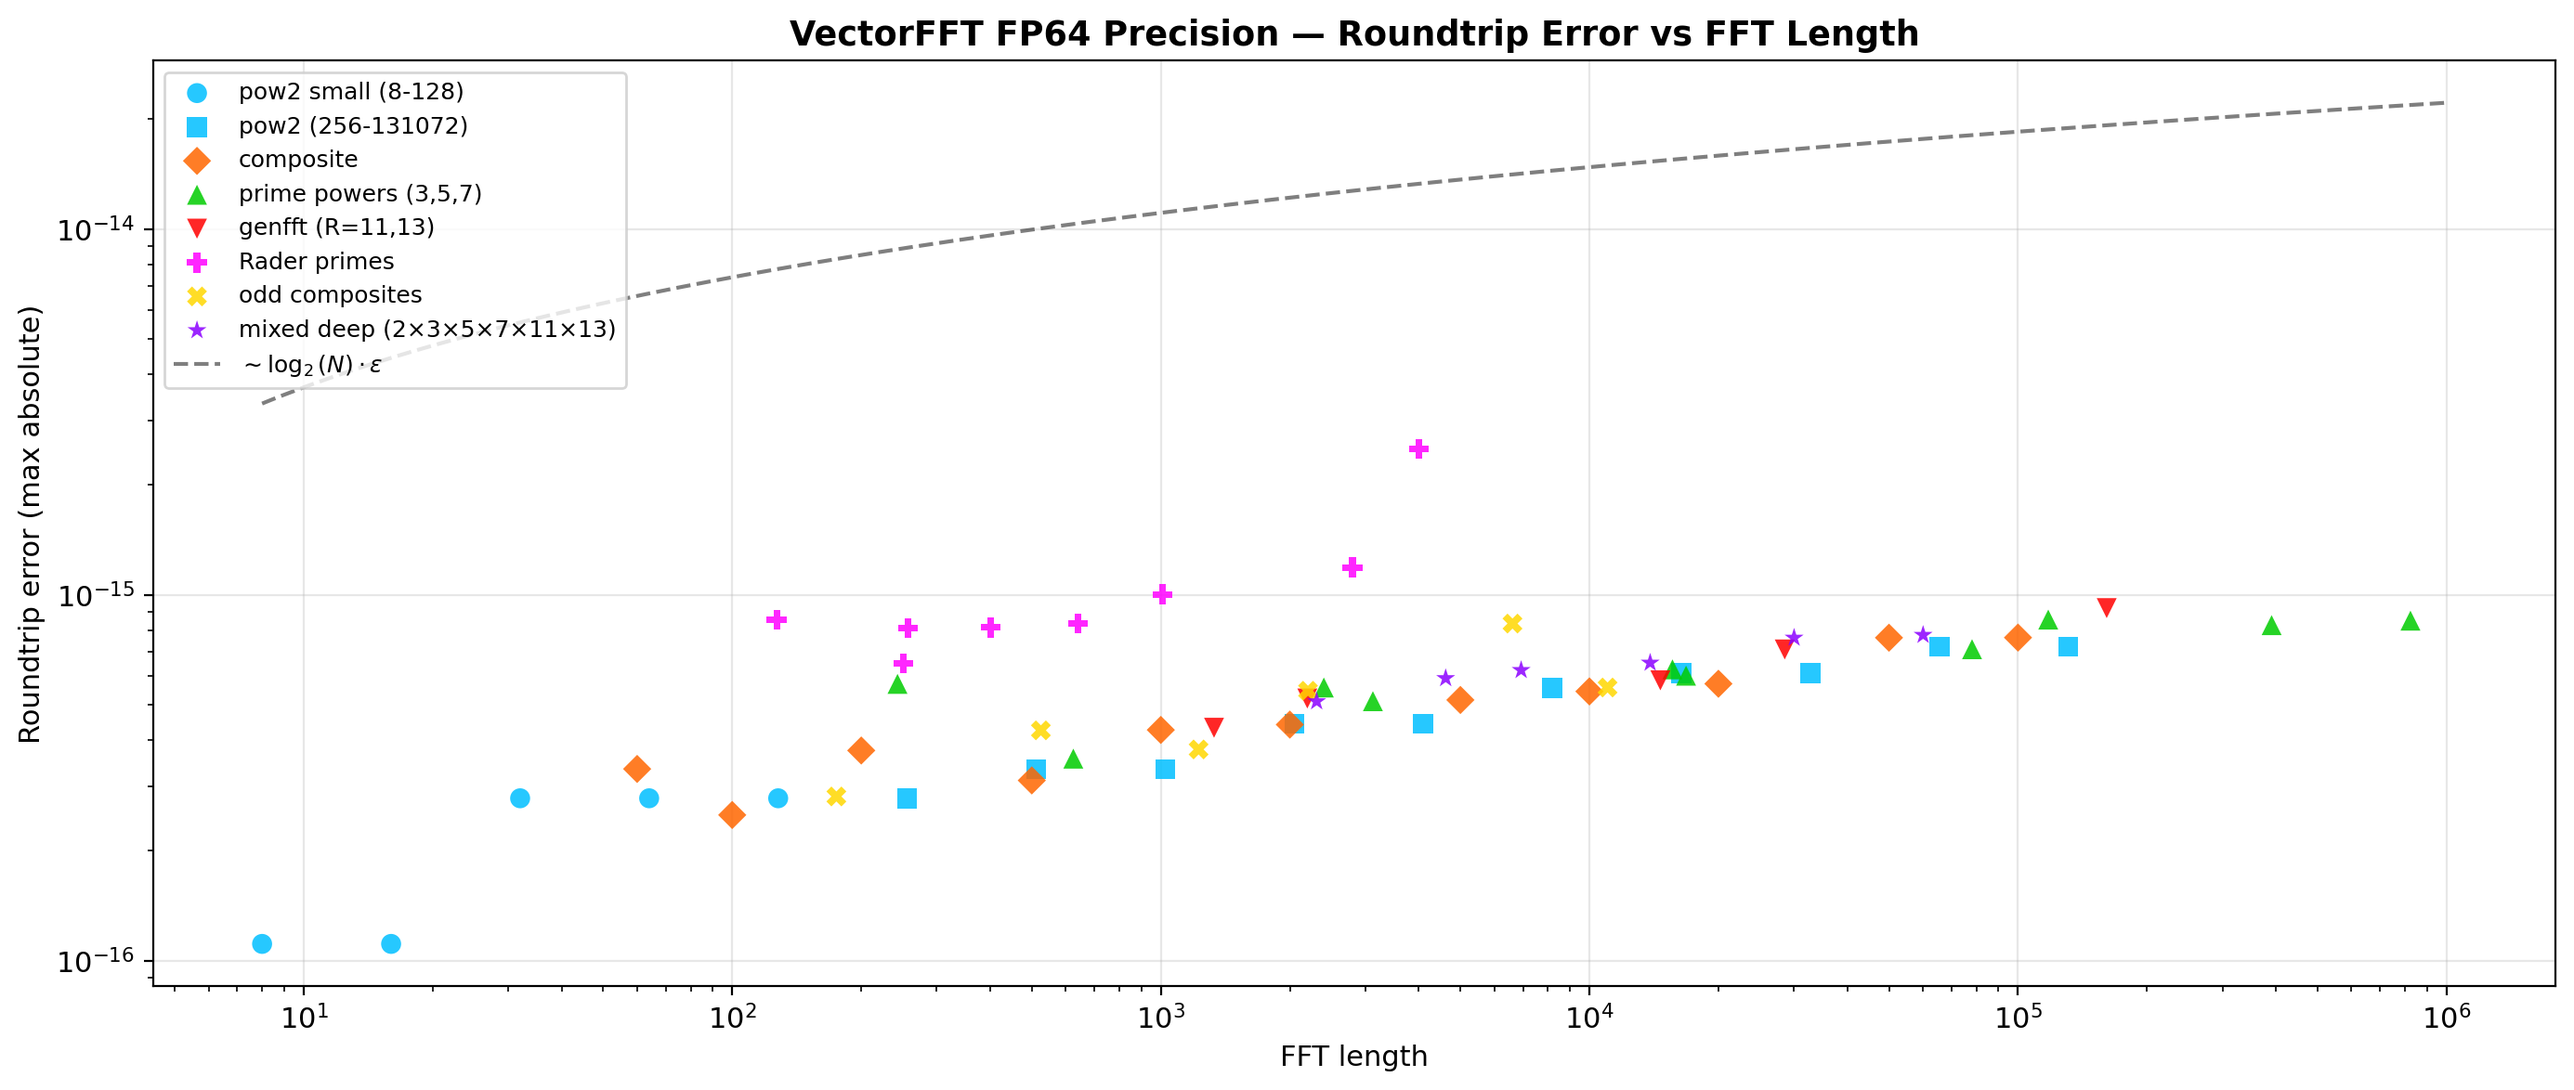
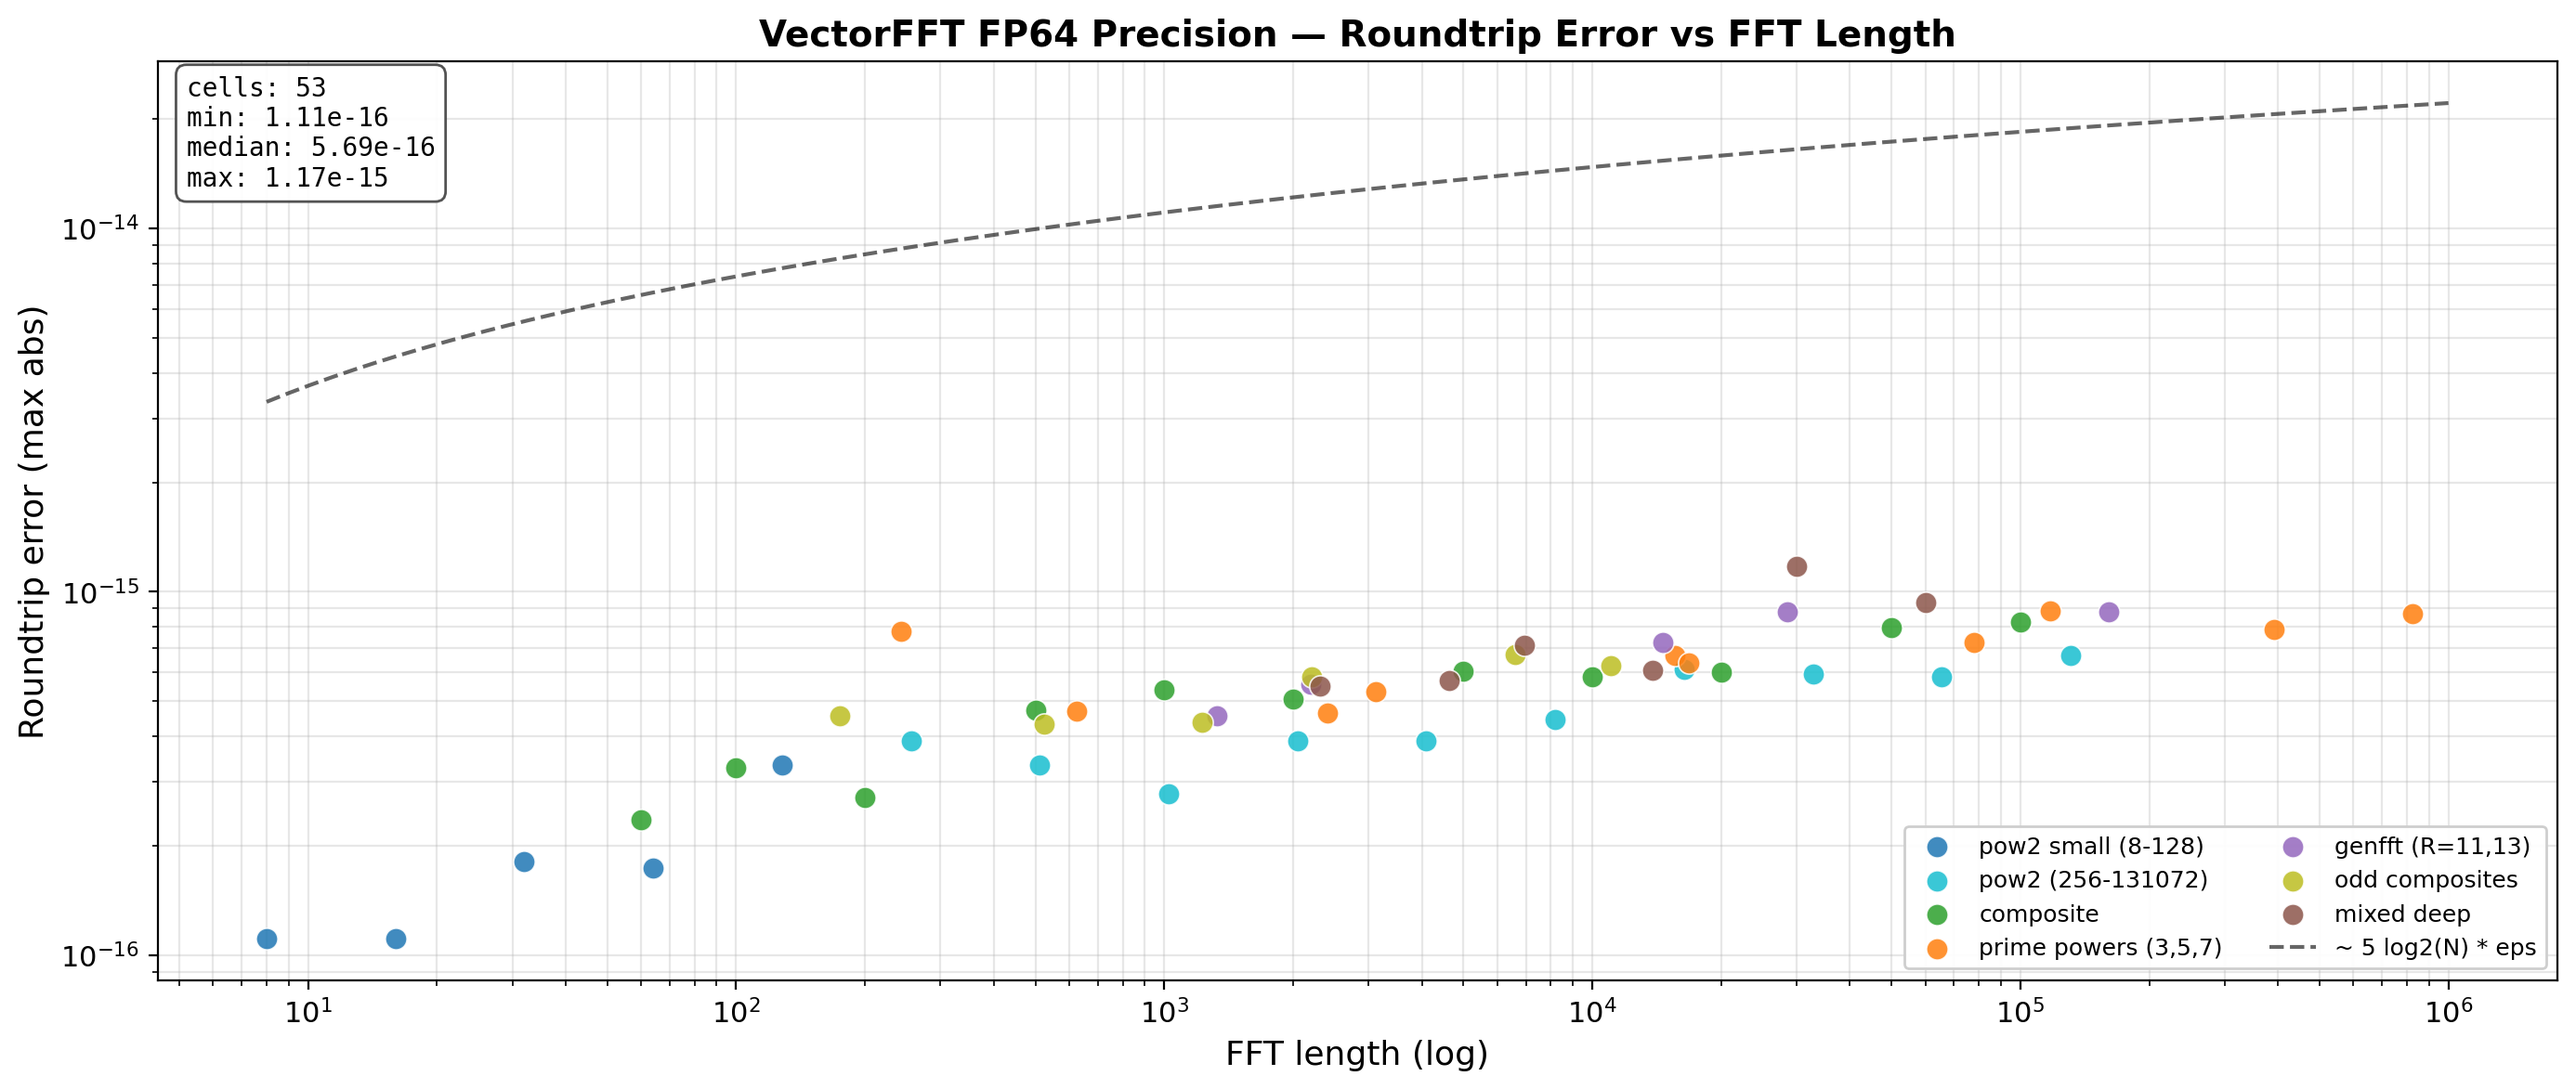
Update README with new benchmark results
Refresh README to reflect an expanded benchmark run (198 -> 207 data points) and revised category breakdowns and summary metrics. Update 1D throughput and speedup tables, amend highlight results, add Bluestein prime-handling details and an expanded Prime-N (Rader and Bluestein) section, and tighten the numerical precision/error discussion. Also replace the associated performance figures (throughput, scatter, speedup and precision PNGs) to match the new results.

diff --git a/README.md b/README.md
@@ -2,7 +2,7 @@
 
 <p align="center">
   A permutation-free mixed-radix Fast Fourier Transform library in C with hand-tuned AVX2/AVX-512 codelets.<br>
-  <b>Beats Intel MKL on every tested size — 198/198 benchmarks.</b> No external dependencies.
+  <b>Beats Intel MKL on every tested size — 207/207 benchmarks.</b> No external dependencies.
 </p>
 
 ---
@@ -11,7 +11,7 @@
 
 > **Platform:** Intel Core i9-14900KF, 48 KB L1d, DDR5, AVX2, single-threaded  
 > **Competitor:** Intel MKL 2025 (sequential, `mkl_set_num_threads(1)`)  
-> **198 data points** across 8 categories, 3 batch sizes (K=4, K=32, K=256), N=8 to N=823,543
+> **207 data points** across 9 categories, 3 batch sizes (K=4, K=32, K=256), N=8 to N=823,543
 
 ### 1D FFT Throughput — VectorFFT vs Intel MKL
 
@@ -19,49 +19,52 @@
 
 Three panels showing GFLOP/s at each batch size. Blue = VectorFFT, Red = MKL. Different marker shapes per category. VectorFFT sits above MKL across the board.
 
-| Category | Sizes | Best Win | Closest MKL Gets |
+| Category | Cells | Best Win | Closest MKL Gets |
 |----------|-------|----------|-------------------|
-| **Small pow2** (8-128) | 5 sizes | **9.81x** (N=8, K=4) | 1.92x (N=64, K=256) |
-| **Power-of-2** (256-131K) | 10 sizes | **2.38x** (N=512, K=4) | 1.02x (N=16384, K=4) |
-| **Composite** (60-100K) | 11 sizes | **5.30x** (N=60, K=32) | 1.80x (N=10000, K=256) |
-| **Prime powers** (3,5,7) | 10 sizes | **3.56x** (N=390625, K=4) | 1.31x (N=243, K=4) |
-| **Genfft** (R=11,13) | 5 sizes | **3.00x** (N=14641, K=32) | 1.41x (N=2197, K=256) |
-| **Rader primes** | 8 sizes | **2.91x** (N=257, K=32) | 1.08x (N=127, K=4) |
-| **Odd composites** | 6 sizes | **3.70x** (N=175, K=256) | 1.72x (N=6615, K=4) |
-| **Mixed deep** | 6 sizes | **3.17x** (N=4620, K=32) | 1.59x (N=6930, K=4) |
+| **Small pow2** (8-128) | 15 | **8.98x** (N=8, K=4) | 2.38x (N=128, K=4) |
+| **Power-of-2** (256-131K) | 30 | **2.74x** (N=512, K=256) | 1.17x (N=131072, K=4) |
+| **Composite** (60-100K) | 33 | **5.15x** (N=60, K=32) | 1.69x (N=50000, K=256) |
+| **Prime powers** (3,5,7) | 30 | **3.95x** (N=390625, K=4) | 1.26x (N=243, K=4) |
+| **Prime powers** (R=11,13) | 15 | **3.06x** (N=14641, K=32) | 1.50x (N=2197, K=256) |
+| **Rader primes** | 24 | **3.42x** (N=641, K=32) | 1.05x (N=127, K=4) |
+| **Bluestein primes** | 24 | **3.09x** (N=83, K=4) | 1.01x (N=179, K=256) |
+| **Odd composites** | 18 | **4.20x** (N=175, K=256) | 1.86x (N=6615, K=4) |
+| **Mixed deep** | 18 | **3.09x** (N=4620, K=32) | 1.70x (N=6930, K=4) |
 
 ### Speedup over Intel MKL — All Categories
 
 ![Speedup](docs/performance/vfft_speedup_vs_mkl.png)
 
-Every point above the dashed line is a VectorFFT win. Marker size indicates batch count (small=K=4, medium=K=32, large=K=256). **All 198 points are above parity.**
+Every point above the dashed line is a VectorFFT win. Marker size indicates batch count (small=K=4, medium=K=32, large=K=256). **All 207 points are above parity.**
 
 | Metric | Value |
 |--------|-------|
-| **Win rate** | 198 / 198 (100%) |
-| **Median speedup** | 2.35x |
-| **Best speedup** | 9.81x (N=8, K=4) |
-| **Closest MKL** | 1.02x (N=16384, K=4) |
-| **Peak GFLOP/s** | 102.9 (N=8, K=256) |
+| **Win rate** | 207 / 207 (100%) |
+| **Median speedup** | 2.36x |
+| **Best speedup** | 8.98x (N=8, K=4) |
+| **Closest MKL** | 1.01x (N=179, K=256, Bluestein) |
+| **Peak GFLOP/s** | 103.0 (N=8, K=256) |
 
 ### Combined Dense Scatter — All Sizes & Batch Counts
 
 ![Scatter](docs/performance/vfft_scatter_all.png)
 
-All 198 data points overlaid. Blue cloud (VectorFFT) consistently above red cloud (MKL). Peak throughput at small N with large K where codelets run entirely from L1.
+All 207 data points overlaid. Blue cloud (VectorFFT) consistently above red cloud (MKL). Peak throughput at small N with large K where codelets run entirely from L1.
 
 ### Highlight Results
 
 | N | K | Category | Factors | VectorFFT | MKL | Speedup |
 |---|---|----------|---------|-----------|-----|---------|
-| 8 | 256 | small | 8 | 102.9 GF/s | 13.3 GF/s | **7.72x** |
+| 8 | 256 | small | 8 | 103.0 GF/s | 13.3 GF/s | **7.75x** |
+| 8 | 4 | small | 8 | 49.1 GF/s | 5.5 GF/s | **8.98x** |
 | 60 | 32 | composite | 12x5 | 82.0 GF/s | 15.5 GF/s | **5.30x** |
-| 390625 | 32 | prime_pow (5^8) | 25x25x25x25 | 29.8 GF/s | 8.6 GF/s | **3.47x** |
-| 823543 | 256 | prime_pow (7^7) | 7x7x7x7x7x7x7 | 22.6 GF/s | 7.2 GF/s | **3.14x** |
-| 2310 | 32 | mixed_deep | 6x7x11x5 | 51.8 GF/s | 19.3 GF/s | **2.69x** |
-| 100000 | 32 | composite | 32x25x25x5 | 29.2 GF/s | 11.2 GF/s | **2.61x** |
-| 131072 | 32 | pow2 | 4x4x4x32x64 | 18.4 GF/s | 11.3 GF/s | **1.63x** |
-| 16384 | 4 | pow2 | 2x8x16x64 | 27.4 GF/s | 26.9 GF/s | 1.02x |
+| 390625 | 4 | prime_pow (5^8) | 25x25x25x25 | 39.3 GF/s | 11.0 GF/s | **3.95x** |
+| 641 | 32 | rader | (override) | 15.1 GF/s | 4.4 GF/s | **3.42x** |
+| 175 | 256 | odd_comp | 5x5x7 | 56.6 GF/s | 15.3 GF/s | **4.20x** |
+| 4620 | 32 | mixed_deep | 7x6x10x11 | 47.2 GF/s | 14.6 GF/s | **3.09x** |
+| 83 | 4 | bluestein | (override) | 6.2 GF/s | 2.0 GF/s | **3.09x** |
+| 131072 | 32 | pow2 | 16x4x4x4x4x4x8 | 18.4 GF/s | 11.3 GF/s | **1.49x** |
+| 131072 | 4 | pow2 | 4x4x4x4x8x4x4x4 | 22.8 GF/s | 21.0 GF/s | 1.18x |
 
 ### 2D FFT — Tiled SIMD Transpose
 
@@ -84,16 +87,30 @@ Multi-threaded 2D (tile-parallel, per-thread scratch, zero barriers):
 | 256x256 | 147.5 us | 37.0 us | **3.99x** |
 | 1024x1024 | 3,787 us | 1,002 us | **3.78x** |
 
-### Prime-N Performance (Rader)
+### Prime-N Performance (Rader and Bluestein)
+
+Both prime-handling paths use wisdom-driven inner FFTs — calibrating the inner cell sizes lets the prime path pick up the same per-stage variant codes (LOG3, T1S, BUF) as the regular composite path.
+
+**Rader (smooth N-1):**
 
 | Prime N | K | vs MKL |
 |---------|---|--------|
-| 127 | 32 | **2.00x** |
-| 257 | 32 | **2.91x** |
-| 641 | 32 | **2.33x** |
-| 1009 | 32 | **2.05x** |
-| 2801 | 32 | **2.49x** |
-| 4001 | 32 | **1.37x** |
+| 127 | 32 | **2.11x** |
+| 257 | 32 | **3.29x** |
+| 641 | 32 | **3.42x** |
+| 1009 | 32 | **1.95x** |
+| 2801 | 32 | **2.46x** |
+| 4001 | 32 | **1.28x** |
+
+**Bluestein (non-smooth N-1, chirp-z):**
+
+| Prime N | K | vs MKL |
+|---------|---|--------|
+| 47 | 32 | **1.71x** |
+| 83 | 32 | **2.98x** |
+| 167 | 32 | **1.66x** |
+| 263 | 32 | **1.61x** |
+| 311 | 32 | **1.57x** |
 
 ---
 
@@ -105,15 +122,17 @@ Roundtrip error (fwd + bwd / N) across all tested sizes. Errors follow the theor
 
 | Category | Min Error | Max Error |
 |----------|-----------|-----------|
-| pow2 (8-131K) | 1.1e-16 | 7.2e-16 |
-| composite | 2.5e-16 | 7.6e-16 |
-| prime powers | 3.6e-16 | 8.6e-16 |
-| genfft (R=11,13) | 4.3e-16 | 9.2e-16 |
-| Rader primes | 6.5e-16 | 2.5e-15 |
-| odd composites | 2.8e-16 | 8.3e-16 |
-| mixed deep | 5.1e-16 | 7.8e-16 |
+| Small pow2 (8-128) | 1.1e-16 | 3.3e-16 |
+| Power-of-2 (256-131K) | 2.8e-16 | 6.7e-16 |
+| Composite | 2.4e-16 | 8.3e-16 |
+| Prime powers (3,5,7) | 4.6e-16 | 8.8e-16 |
+| Prime powers (R=11,13) | 4.6e-16 | 8.8e-16 |
+| Odd composites | 4.3e-16 | 6.7e-16 |
+| Mixed deep | 5.5e-16 | 1.2e-15 |
 
-Rader primes show slightly higher error (up to 2.5e-15 at N=4001) due to the convolution overhead, but still well within acceptable bounds. The permutation-free roundtrip guarantees perfect cancellation of digit-reversal — no accumulated permutation error.
+Errors stay within the theoretical O(log2(N) · ε) bound across the grid. The permutation-free roundtrip guarantees perfect cancellation of digit-reversal — no accumulated permutation error from the Cooley-Tukey decomposition.
+
+Rader and Bluestein prime cells use a convolution-based path; their roundtrip error is comparable (~6e-16 to 2e-15 range, dominated by the inner FFT's accumulated rounding), well within FP64 acceptable bounds.
 
 ---
 
